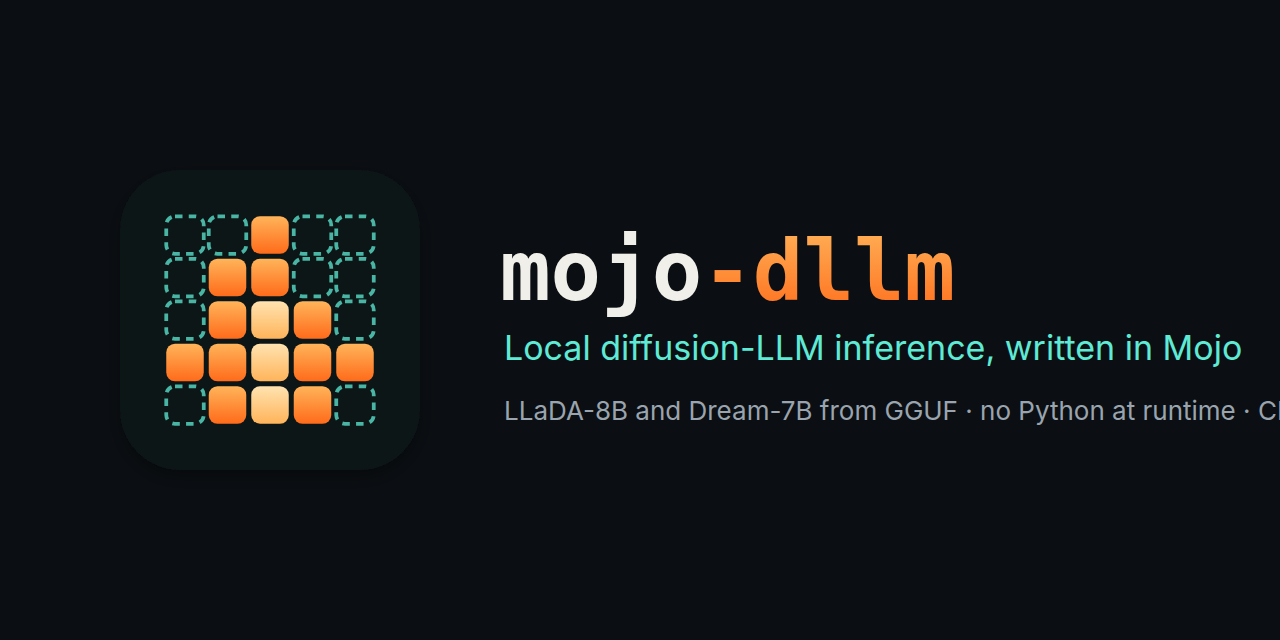
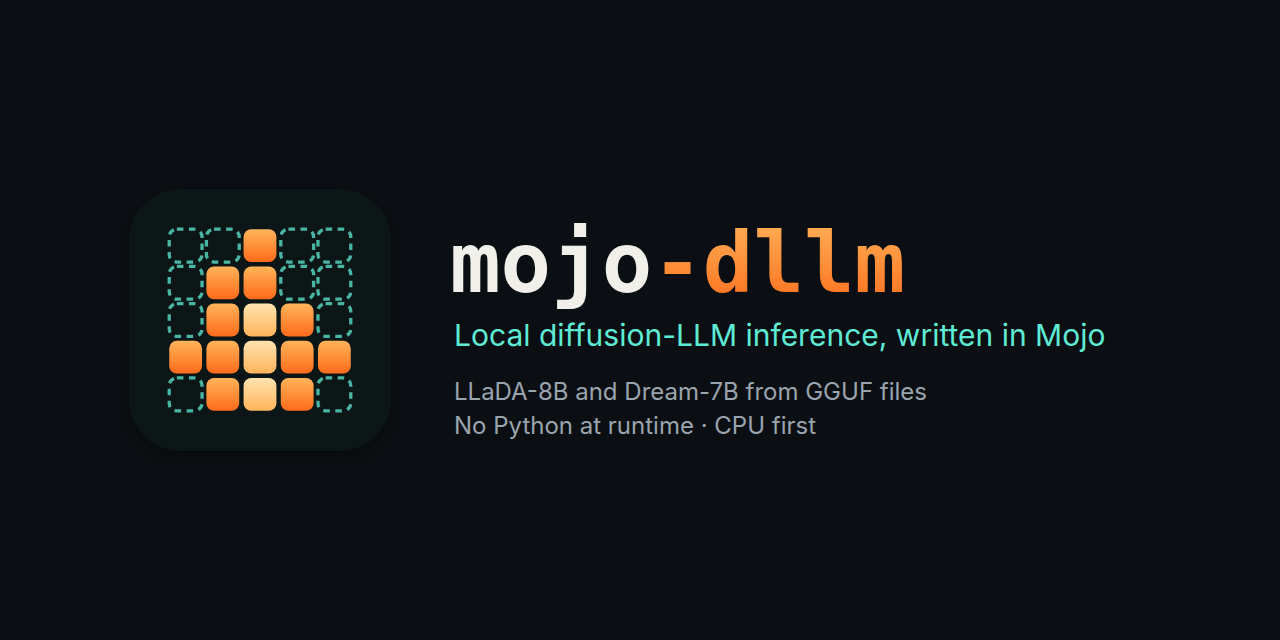
Keep the social preview inside GitHub's repo card safe zone
The tagline ran past the right edge and was cropped at 1280 px. GitHub's
template asks for an 80 px border on every side; content now spans
x 167..1104, y 223..438.

Claude-Session: https://claude.ai/code/session_0127uo7T2bwHTsjd4tWGhL8U

Changed region(s): [[0.3438, 0.3438, 0.9688, 0.5625], [0.125, 0.3125, 0.3125, 0.6875], [0.3438, 0.5938, 1.0, 0.6875]]

diff --git a/scripts/gen_brand.py b/scripts/gen_brand.py
@@ -44,7 +44,9 @@ def wordmark() -> str:
 
 
 def social() -> str:
-    d, g = logo_group(110, 160, 320, "s")
+    # GitHub's repo card template keeps everything 80 px from each edge, so
+    # all content sits in x 80..1200, y 80..560 (checked by check_social.py).
+    d, g = logo_group(120, 180, 280, "s")
     return f"""<svg xmlns="http://www.w3.org/2000/svg" viewBox="0 0 1280 640" width="1280" height="640" role="img" aria-labelledby="t">
   <title id="t">mojo-dllm: diffusion language models, in Mojo</title>
   <defs>{d}
@@ -52,9 +54,10 @@ def social() -> str:
   </defs>
   <rect width="1280" height="640" fill="#0B0F13"/>
   {g}
-  <text x="500" y="300" font-family="JetBrains Mono, Fira Code, Menlo, Consolas, monospace" font-size="84" font-weight="700" fill="#F0EFE9">mojo<tspan fill="url(#word)">-dllm</tspan></text>
-  <text x="504" y="360" font-family="Inter, Helvetica, Arial, sans-serif" font-size="34" fill="#5EEAD4">Local diffusion-LLM inference, written in Mojo</text>
-  <text x="504" y="420" font-family="Inter, Helvetica, Arial, sans-serif" font-size="26" fill="#9AA4AE">LLaDA-8B and Dream-7B from GGUF · no Python at runtime · CPU first</text>
+  <text x="450" y="292" font-family="JetBrains Mono, Fira Code, Menlo, Consolas, monospace" font-size="84" font-weight="700" fill="#F0EFE9">mojo<tspan fill="url(#word)">-dllm</tspan></text>
+  <text x="454" y="346" font-family="Inter, Helvetica, Arial, sans-serif" font-size="30" fill="#5EEAD4">Local diffusion-LLM inference, written in Mojo</text>
+  <text x="454" y="400" font-family="Inter, Helvetica, Arial, sans-serif" font-size="24" fill="#9AA4AE">LLaDA-8B and Dream-7B from GGUF files</text>
+  <text x="454" y="434" font-family="Inter, Helvetica, Arial, sans-serif" font-size="24" fill="#9AA4AE">No Python at runtime · CPU first</text>
 </svg>
 """
 
